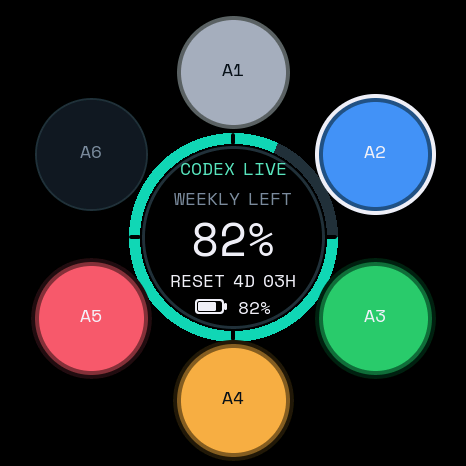
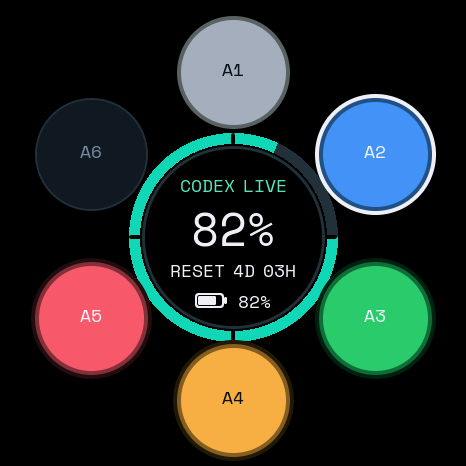
docs: record center UI validation and refresh previews

Changed region(s): [[0.3605, 0.3305, 0.6309, 0.691]]

diff --git a/simulator/preview_main.cpp b/simulator/preview_main.cpp
@@ -28,7 +28,18 @@ dashboard::State previewState(const char* scenario) {
       {0x000000, 0.00f, false},  // unassigned
   }};
 
-  if (std::strcmp(scenario, "ble") == 0) {
+  if (std::strcmp(scenario, "live-battery-0") == 0) {
+    state.batteryPercent = 0;
+  } else if (std::strcmp(scenario, "live-battery-9") == 0) {
+    state.batteryPercent = 9;
+  } else if (std::strcmp(scenario, "live-battery-100") == 0) {
+    state.batteryPercent = 100;
+  } else if (std::strcmp(scenario, "live-unknown-battery") == 0) {
+    state.batteryPercent = -1;
+  } else if (std::strcmp(scenario, "live-charging") == 0) {
+    state.charging = true;
+    state.docked = true;
+  } else if (std::strcmp(scenario, "ble") == 0) {
     state.linkHealth = dashboard::LinkHealth::BleOnly;
     state.batteryPercent = 61;
     state.charging = true;
@@ -63,7 +74,13 @@ super_workspace::State superPreviewState(const char* scenario) {
   const bool hermes = std::strncmp(scenario, "hermes", 6) == 0;
   if (hermes) state.profile = super_workspace::Profile::Hermes;
   const char* suffix = scenario + (hermes ? 6 : 5);
-  if (std::strcmp(suffix, "-active-right") == 0) {
+  if (std::strcmp(suffix, "-battery-0") == 0) {
+    state.batteryPercent = 0;
+  } else if (std::strcmp(suffix, "-battery-9") == 0) {
+    state.batteryPercent = 9;
+  } else if (std::strcmp(suffix, "-battery-100") == 0) {
+    state.batteryPercent = 100;
+  } else if (std::strcmp(suffix, "-active-right") == 0) {
     state.swipeDirection = touch_gesture::Direction::Right;
   } else if (std::strcmp(suffix, "-active-up") == 0) {
     state.swipeDirection = touch_gesture::Direction::Up;
@@ -97,11 +114,17 @@ bool validScenario(const char* scenario) {
     const char* suffix = scenario + (hermes ? 6 : 5);
     for (const auto* known : {"", "-active-up", "-active-right", "-active-down",
                               "-active-left", "-offline", "-charging",
-                              "-power-hold", "-unknown-battery", "-colors"})
+                              "-power-hold", "-unknown-battery", "-colors",
+                              "-battery-0", "-battery-9", "-battery-100"})
       if (std::strcmp(suffix, known) == 0) return true;
     return false;
   }
   return std::strcmp(scenario, "live") == 0 ||
+         std::strcmp(scenario, "live-battery-0") == 0 ||
+         std::strcmp(scenario, "live-battery-9") == 0 ||
+         std::strcmp(scenario, "live-battery-100") == 0 ||
+         std::strcmp(scenario, "live-unknown-battery") == 0 ||
+         std::strcmp(scenario, "live-charging") == 0 ||
          std::strcmp(scenario, "ble") == 0 ||
          std::strcmp(scenario, "live-stale") == 0 ||
          std::strcmp(scenario, "offline") == 0 ||
@@ -136,8 +159,10 @@ int main(int argc, char** argv) {
   if (!validScenario(scenario)) {
     std::fprintf(stderr,
                  "Unknown scenario '%s' (use live, ble, live-stale, offline, "
-                 "super, super-active-right, super-offline, super-charging, "
-                 "super-power-hold, power-hold, or power-off)\n",
+                 "power-hold, power-off; super/hermes with optional "
+                 "-active-up/-right/-down/-left, -offline, -charging, "
+                 "-power-hold, -unknown-battery, -colors, -battery-0/-9/-100; "
+                 "live also accepts -charging, -unknown-battery, -battery-0/-9/-100)\n",
                  scenario);
     return 2;
   }

diff --git a/docs/superpowers/plans/2026-09-04-navigation-permissions-center-ui.md b/docs/superpowers/plans/2026-09-04-navigation-permissions-center-ui.md
@@ -1,0 +1,72 @@
+# Navigation permissions and center UI refinement
+
+Status: Approved implementation; preview and physical acceptance pending.
+Date: 2026-09-04. Branch: `feature/hermes-desktop-workspace`.
+Source baseline: `9676b6f`.
+
+## Approved scope
+
+- Restore Accessibility authorization for the installed Companion and restart
+  the original LaunchAgent. Do not reinstall, re-sign, remap keys, modify the
+  plist, or read application configuration. Retain Input Monitoring.
+- Verify SUPER previous/next project and next tab; HERMES previous/next tab
+  and new tab. Require both no fresh permission rejection and user-observed
+  physical success. If still failing, stop navigation acceptance and compare
+  physical keyboard input with existing process-targeted delivery.
+- Remove `WEEKLY LEFT` from the normal Codex dial. Keep status, quota, reset
+  and battery text centers at y=185, 228, 270 and 301. Keep the original
+  five-row diagnostic layout and its `SYNC STALE` / `WAITING CODEX` messages.
+- Center the SUPER/HERMES battery icon, including its terminal, an 8px gap,
+  and the measured percentage label together at x=233, y=276. Preserve
+  charging and low-battery rendering, title/status positions, triangle geometry,
+  palette behavior, feedback and lease behavior.
+- No HID/RPC, public interface, key mapping, audio, quota or Companion source
+  changes. No push or merge. Preview approval and fresh exact-port approval
+  are separate gates before any USB-mic flash.
+
+## Implementation and verification
+
+The two renderer changes were developed test-first and reviewed serially
+against the approved requirements and `AGENTS.md`; no subagents were used.
+
+| Layer | Result | Evidence and boundary |
+| --- | --- | --- |
+| Codex renderer RED | Observed | New test failed because the old renderer still drew `WEEKLY LEFT` |
+| Workspace battery RED | Observed | New test failed the icon-terminal-to-label 8px gap requirement |
+| Renderer GREEN | Pass | Normal/diagnostic coordinates and battery-group center error of at most 1px; both profiles, charging on/off, 0%, 9%, 78%, 100%, unknown |
+| Native test executables | Pass | All 11 `simulator/*_test.cpp` executables compiled with C++17 and `-Wall -Wextra -Werror`, then exited 0 |
+| Native preview | Pass with dependency warning | 37 scenarios rendered at 466x466; native M5GFX emits an existing variable-length-array warning |
+| Visual inspection | Pass for inspected previews | Normal Codex/SUPER/HERMES, stale Codex, charging, workspace unknown/100% battery and power overlay inspected; no observed new text collision |
+| USB-mic build | Pass | Both PlatformIO environments succeeded; final build log has no warning/error diagnostics |
+| Whitespace | Pass | `git diff --check` |
+| Swift / XCTest | Not rerun | No Swift changes; the earlier CLT `XCTest` environment limitation is not a passing test result |
+| Navigation | Pending user observation | User re-added Accessibility; original service restarted without changing plist/signature. Initial fresh log check found no Input Monitoring, Accessibility or delivery warning; this alone does not prove physical navigation |
+| New UI installation | Not performed | Native previews and compilation are not physical C152 acceptance |
+
+Preview fixtures add low, full, unknown and charging batteries. The three public
+preview assets are generated from the same shared production renderers, using
+synthetic values only. They are not screenshots of user data or hardware.
+
+The pre-change USB-mic artifacts were preserved privately before building.
+The baseline firmware SHA-256 remains
[1 lines of base64/hex data omitted]
+The new UI firmware SHA-256 is
[1 lines of base64/hex data omitted]
+These identify local build artifacts, not reproducible-build or hardware claims.
+
+## Review and acceptance gates
+
+Serial standards review found no blocking issue: runtime identifiers and
+privacy boundaries are unchanged, fonts are loaded before measuring text,
+and label bounds use the terminal's width. Serial specification review found
+no source-level deviation in the scoped UI change. Remaining physical gates
+are deliberately not marked complete:
+
+- [ ] User confirms all six navigation actions after reauthorization.
+- [ ] User approves the three updated native previews.
+- [ ] Reconfirm recovery artifacts and freshly enumerate the download port.
+- [ ] Obtain explicit approval of that exact port, then flash USB-mic only.
+- [ ] Physically verify three-desktop cycling, six navigation actions, random
+  colors, input isolation, USB microphone and quota synchronization.
+
+Do not infer success for any unchecked item from earlier installation history.
